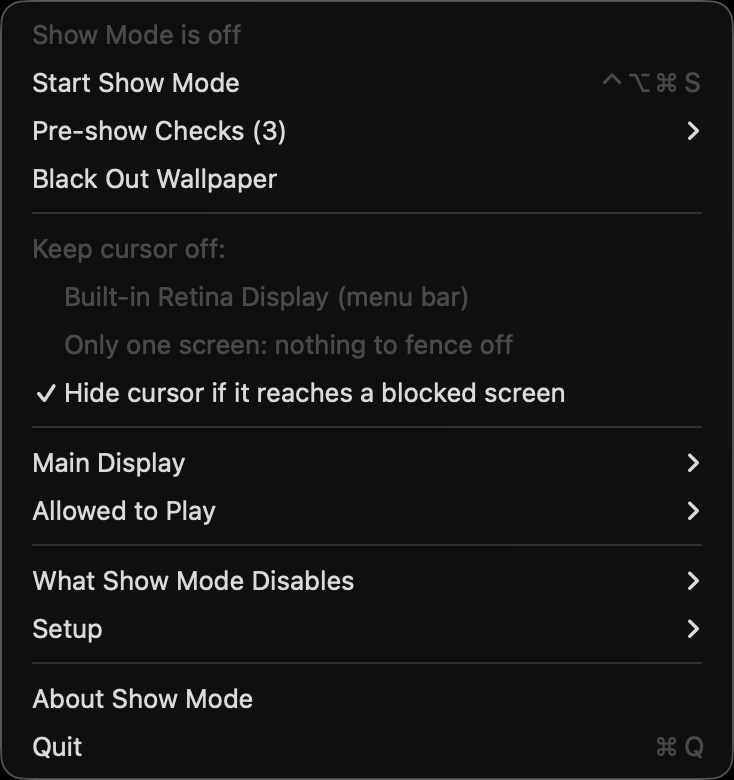
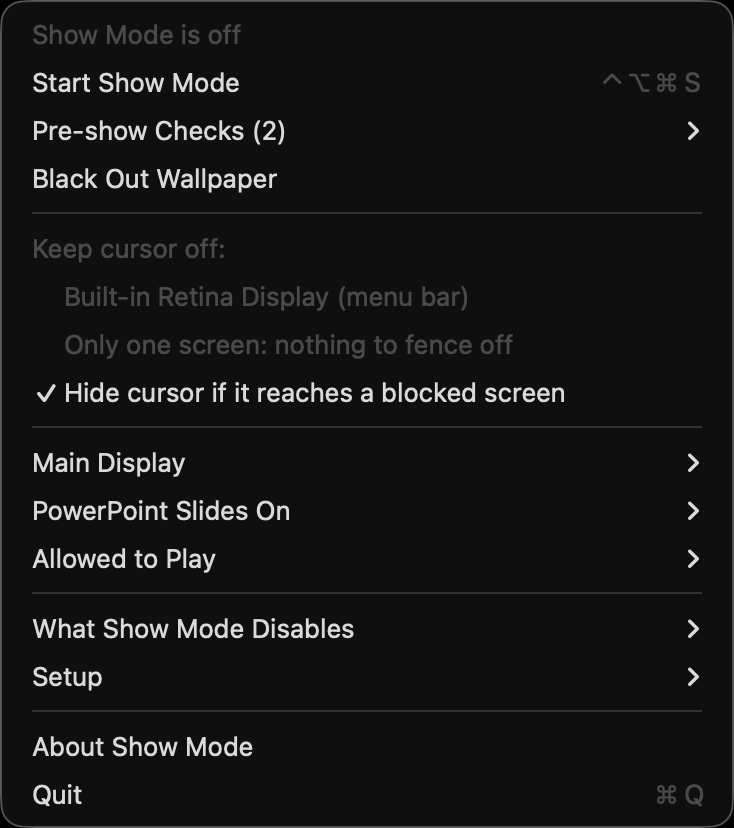
v0.6.0: screen layout lock and the Mission Control fix; fan guards held
- Version 0.6.0, About data synced.
- The two fan guards are held (Guard.held): out of the menu and never on, until
  their first run as root. Their guide section, table rows, status entry, README
  row and the "fans" in the admin prompt's text are out until they ship.
- Guide status: v0.6.0 released on the bench result (virtual displays, Mission
  Control's real steps through a harness; no show yet).
- Menu screenshot retaken: it has PowerPoint Slides On.

diff --git a/Sources/ShowMode/Settings.swift b/Sources/ShowMode/Settings.swift
@@ -95,8 +95,16 @@ enum Guard: String, CaseIterable {
         }
     }
 
-    /// How the menu groups them.
-    static let sections: [(title: String, guards: [Guard])] = [
+    /// Built but not offered yet. The fan guards wait for their first run as root: until then
+    /// nothing that moves a fan has run. A journal entry a test build left behind still restores.
+    static let held: Set<Guard> = [.fansFull, .fansQuiet]
+
+    /// How the menu groups them, less the held ones.
+    static var sections: [(title: String, guards: [Guard])] {
+        allSections.map { ($0.title, $0.guards.filter { !held.contains($0) }) }
+    }
+
+    private static let allSections: [(title: String, guards: [Guard])] = [
         ("Power", [.sleep, .lidSleep, .lowPower, .screenSaver, .fansFull, .fansQuiet]),
         ("Screen & input", [.hotCorners, .missionControl, .missionControlApps, .spaceSwipe, .clickToShowDesktop,
                             .stageManager, .spotlightKey, .wallpaper]),
@@ -116,7 +124,8 @@ final class Settings {
     private let d = UserDefaults.standard
 
     func isOn(_ g: Guard) -> Bool {
-        d.object(forKey: "guard.\(g.rawValue)") as? Bool ?? g.defaultOn
+        guard !Guard.held.contains(g) else { return false }
+        return d.object(forKey: "guard.\(g.rawValue)") as? Bool ?? g.defaultOn
     }
 
     func set(_ g: Guard, _ on: Bool) { d.set(on, forKey: "guard.\(g.rawValue)") }

diff --git a/Sources/ShowMode/StoatworksAboutData.swift b/Sources/ShowMode/StoatworksAboutData.swift
@@ -1,6 +1,6 @@
 // Stoatworks Labs — About window data for Show Mode.
 //
-// GENERATED by stoatworks-backend/scripts/sync-about.py on 2026-10-11. Do not
+// GENERATED by stoatworks-backend/scripts/sync-about.py on 2026-11-03. Do not
 // edit: the next sync overwrites it. The facts come from the website's
 // projects.json, which is the one place they are written down.
 //
@@ -11,12 +11,12 @@
 enum StoatworksAboutData {
     static let name = "Show Mode"
     static let slug = "showmode"
-    static let hook = "One click to lock a machine down for a show"
+    static let hook = "Stops your show Mac embarrassing you mid-show"
     static let licence = "MIT"
     static let guide = "https://stoatworks-labs.com/software/showmode/guide/"
     static let page = "https://stoatworks-labs.com/software/showmode/"
     static let repo = "https://github.com/stoatworks-labs/showmode"
-    static let versionFallback = "v0.5.0"
+    static let versionFallback = "v0.6.0"
 
     static let org = "Stoatworks Labs"
     static let home = "https://stoatworks-labs.com"

diff --git a/Sources/ShowMode/Version.swift b/Sources/ShowMode/Version.swift
@@ -1,3 +1,3 @@
 /// The one place the version is written. scripts/build-app.sh reads it for the
 /// bundle's CFBundleShortVersionString, and the fleet's sync-about reads it too.
-let appVersion = "0.5.0"
+let appVersion = "0.6.0"

diff --git a/docs/USER-GUIDE.md b/docs/USER-GUIDE.md
@@ -86,13 +86,7 @@ and keeps the mouse cursor off the screens the audience is looking at.
 > relaunch; Keyboard Setup Assistant, which needs a device macOS doesn't recognise; and what the
 > experimental user-activity heartbeat changes.
 >
-> **Fans (not released yet):** checked without the password on a MacBook Pro (M4 Max,
-> macOS 26.4.1): reading both fans' speeds and limits, the helper refusing to change anything
-> when it isn't root, and the copy check passing a good copy and refusing one with a changed
-> byte of code, an edited Info.plist or another developer's signature. **Not checked:**
-> everything that needs the password, which is everything that actually moves a fan.
->
-> **Mission Control (not released yet, checked 2026-10-20 on macOS 26.4.1):** the Mission
+> **Mission Control (v0.6.0, checked 2026-10-20 on macOS 26.4.1):** the Mission
 > Control guard in v0.5.0 and earlier stopped nothing on this macOS. The bench check above
 > watched its settings go off and come back, not Mission Control staying shut, and the Dock
 > ignores the setting it writes unless that setting is forced. With it on, ⌃↑ and ⌃↓ still
@@ -107,7 +101,7 @@ and keeps the mouse cursor off the screens the audience is looking at.
 > Dock the same request Logi Options+ sends); the trackpad gestures under the forced setting; a
 > Mac with managed Dock settings of its own; and macOS before 26.
 >
-> **Screen layout lock and PowerPoint (not released yet, checked 2026-11-03 on macOS 26.4.1,
+> **Screen layout lock and PowerPoint (v0.6.0, checked 2026-11-03 on macOS 26.4.1,
 > PowerPoint 16.112.3):** on virtual displays only, two made in software beside a MacBook Pro's
 > built-in screen, with a test copy of Show Mode that had every other guard switched off. With
 > the built-in screen cloned to one and the other extended, a Presenter View show made PowerPoint
@@ -126,9 +120,10 @@ and keeps the mouse cursor off the screens the audience is looking at.
 > may not answer the mirroring call the way a cabled display does; and a real sunset under a
 > pinned appearance (the pin itself was checked, but not an evening switch it holds off). If
 > your show uses one of those screens, try it with them connected before the show.
-> **Released at v0.5.0.** v0.3.1 is field proven; the guards new in v0.4.0 (privacy dots,
-> swipe between Spaces) and v0.5.0 (everything marked v0.5.0 above) haven't been run on a
-> show yet. v0.5.0 also draws the menu-bar masks in the menu bar's own colour, white over the
+> **Released at v0.6.0.** v0.3.1 is field proven; the guards new in v0.4.0 (privacy dots,
+> swipe between Spaces), v0.5.0 (everything marked v0.5.0 above) and v0.6.0 (the Mission
+> Control fix and the screen layout lock's PowerPoint handling) haven't been run on a show yet.
+> v0.5.0 also draws the menu-bar masks in the menu bar's own colour, white over the
 > blacked-out wallpaper, instead of red; a capture of the menu bar during a show (2026-10-11,
 > macOS 26.4.1) showed them solid white on the black bar.
 >
@@ -174,8 +169,6 @@ the next start.
 | Prevent sleep on lid close | Sets `pmset disablesleep`, so a laptop driving a projector keeps going with its lid shut. **Off by default** because it asks for your password on every start and end. |
 | Turn off Low Power Mode | Only if it is on, per power source (battery and mains separately). Asks for your password once. |
 | Disable screen saver | Sets the idle time to never. |
-| Run the fans at full speed (admin) | **Off by default.** Every fan at its top speed for the whole show. See [Fans](#fans). |
-| Keep the fans at their quietest (admin) | **Off by default.** Every fan at its slowest, for a room quiet enough to hear them. See [Fans](#fans). |
 | Disable hot corners | Sets all four corners to do nothing, and restarts the Dock so it takes effect. |
 | Disable Mission Control, Exposé & gestures | Turns off the keys for Mission Control, App Exposé and Show Desktop (⌃↑, ⌃↓, F11 and the Mission Control key, with or without ⇧, ⌃, ⌥ or ⌘), and the swipe and pinch gestures for Mission Control, App Exposé, Show Desktop and Launchpad. Restarts the Dock. It can't stop an app that opens Mission Control itself, which is what mouse software does: see the next one. |
 | Stop mouse & other apps opening Mission Control (admin) | **Off by default.** Switches Mission Control off in the Dock itself, so a mouse button set to Mission Control or App Exposé does nothing either. Asks for your password at the start and the end. See [Mission Control and mouse buttons](#mission-control-and-mouse-buttons). |
@@ -418,33 +411,6 @@ What I've left alone on purpose: the processes that answer Spotlight searches, i
 security scanning, anything to do with Apple Intelligence (switching it off can delete its
 models and download them again), and Location Services (macOS 26 doesn't let an app switch it
 off).
-
-## Fans
-
-There are two fan guards and you get one or the other: ticking one unticks the other. Both ask
-for your password at the start of the show, and both need an Apple silicon Mac with fans (a
-MacBook Air hasn't got any).
-
-**Full speed** runs every fan flat out for the show. A Mac working hard for hours warms up, and
-once it's hot enough macOS slows it down to cope, which on a show looks like dropped frames.
-Full speed gives it all the cooling it has from the first cue, so it gets there later, if at
-all. It's loud: a 16-inch MacBook Pro's fans top out near 5,800 rpm. Fine at the back of a
-tent, less so beside a string quartet.
-
-**Quiet** holds every fan at its slowest (1,350 rpm on that MacBook Pro), so they don't ramp up
-in the middle of a scene when the Mac gets busy. The Mac does warm up faster. If it gets hot
-enough for macOS to start slowing it down, Show Mode hands the fans back to macOS until the Mac
-has been cool for five minutes, then holds them at their slowest again, and the menu says so
-while it's happening. A Mac doing almost nothing can stop its fans altogether, so on an idle Mac
-quiet can be a touch louder than leaving them alone; it earns its keep on a Mac that's working.
-
-Fan speeds can only be set as root, so a small helper holds them for the show. The helper is
-Show Mode itself, run from a copy in a folder only the system can write to, and only after macOS
-has checked that the copy is signed by the same developer as the app you're running. It gives the fans back
-to macOS at the end of the show, when you quit, and by itself the moment Show Mode goes away,
-crash included, so the fans can't be left stuck. If another app is already controlling the fans
-(Macs Fan Control, TG Pro, Stats), Show Mode leaves them alone and tells you. If something takes
-them back mid-show, it takes them again a few times and then lets go rather than fight over them.
 
 ## Pre-show checks
 

diff --git a/README.md b/README.md
@@ -14,13 +14,13 @@ setting back how you had it.
 > run the power, screen saver, hot corner, Mission Control, True Tone and Night Shift guards and
 > every restore path end to end, and the cursor fence (with and without Accessibility), the
 > screen layout lock, Do Not Disturb and appearance pinning on a real two-screen setup. Not tried
-> yet: the screen layout lock with AirPlay, Sidecar or DisplayLink screens, and its new PowerPoint
-> handling (holding clones, moving the slides) anywhere but virtual displays. v0.4.0's privacy dots and swipe
-> between Spaces guards haven't done a show yet, and v0.5.0's new guards (system sounds, muting
-> other apps, background work, interruptions, remote sessions) have only been checked on the
-> bench. One correction: up to v0.5.0 the Mission Control guard didn't actually stop Mission
-> Control on macOS 26, because the Dock ignores the setting it wrote. The fix is on main and not
-> released yet. All the details are in the [user guide](docs/USER-GUIDE.md).
+> yet: the screen layout lock with AirPlay, Sidecar or DisplayLink screens, and v0.6.0's PowerPoint
+> handling (holding clones, moving the slides) anywhere but virtual displays. v0.4.0's privacy
+> dots and swipe between Spaces guards haven't done a show yet, and v0.5.0's new guards (system
+> sounds, muting other apps, background work, interruptions, remote sessions) have only been
+> checked on the bench. One correction: up to v0.5.0 the Mission Control guard didn't actually
+> stop Mission Control on macOS 26, because the Dock ignores the setting it wrote. v0.6.0 fixes
+> it. All the details are in the [user guide](docs/USER-GUIDE.md).
 
 ![The Show Mode menu](docs/screenshots/menu.png)
 
@@ -50,7 +50,6 @@ macOS builds are signed and notarised by Apple, so they open normally — no Gat
 | Display & system idle sleep | IOKit power assertions (die with the process) |
 | Lid-close sleep *(off by default)* | `pmset disablesleep 1` — admin prompt |
 | Low Power Mode | `pmset <source> powermode/lowpowermode 0`, per power source — admin prompt, only if it is on |
-| Fans *(off by default, Apple silicon)* | every fan fixed at its maximum (full speed) or minimum (quiet) through the SMC: mode key `F0Md` to 1 and target `F0Tg` to `F0Mx` or `F0Mn`, with the test flag `Ftst` set first where the SMC asks for it (M1–M4). Writing needs root, so a root helper holds them for the show — Show Mode's own executable, run from a copy of the bundle in a root-only directory once `codesign` has checked the copy against the running app's designated requirement. It hands the fans back to macOS at the end or as soon as Show Mode goes away. Quiet hands them back while macOS reports the Mac hot enough to slow down (`thermalState` serious) and takes them again after five cool minutes. Left alone if another app already has them — admin prompt |
 | Screen saver | `com.apple.screensaver idleTime 0` (current host) |
 | Hot corners | all four `wvous-*` set to no-op, Dock restarted |
 | Mission Control / App Exposé / gestures | the four Dock gesture keys, Dock restarted, and Mission Control's shortcuts off in WindowServer through SkyLight `CGSSetSymbolicHotKeyEnabled`, as ⌘Space is: ⌃↑ ⌃↓ and their ⇧ twins (32–35), F11 Show Desktop (36, 37) and the Mission Control key with each modifier (108–117). It also writes `mcx-expose-disabled`, which macOS 26's Dock ignores unless it's forced (next row) |

diff --git a/AGENTS.md b/AGENTS.md
@@ -152,6 +152,11 @@ Invariants for anyone (human or agent) changing this repo.
   quits at once when opened by hand, so its guard needs a real unrecognised keyboard to test.
   When a documented key does nothing, diff the preferences around the System Settings switch
   before giving up.
+- **The fan guards are held, not released** (`Guard.held`, from v0.6.0): out of the menu,
+  `isOn` false, until their first run as root (full on/off, a kill mid-show, quiet under load,
+  the reset step; it needs Allan at the password prompt). v0.6.0 took their guide text, guide
+  table rows, status entry and README row out; put them back from `d722c0e`'s
+  `docs/USER-GUIDE.md` and `README.md`, and "fans" to `build-app.sh`'s Apple Events text, when they ship.
 - **Fans go through the SMC, held by a root helper that is Show Mode itself** (`FanHold`).
   Writing a fan key needs root and a fixed speed needs holding, so the admin step copies the
   whole bundle into `/private/var/run/com.stoatworks.showmode.fans` (only root writes there),
